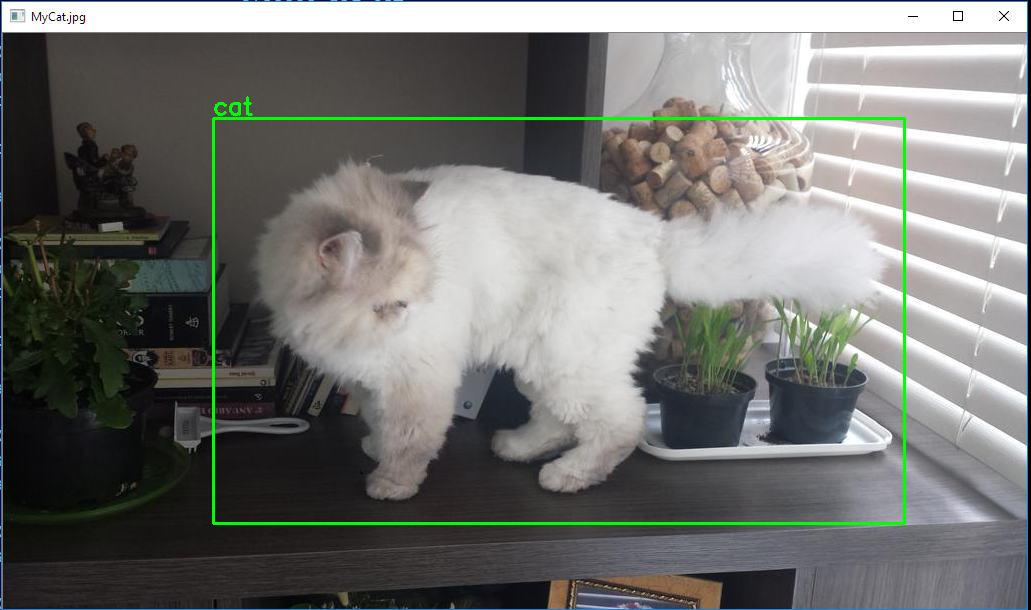
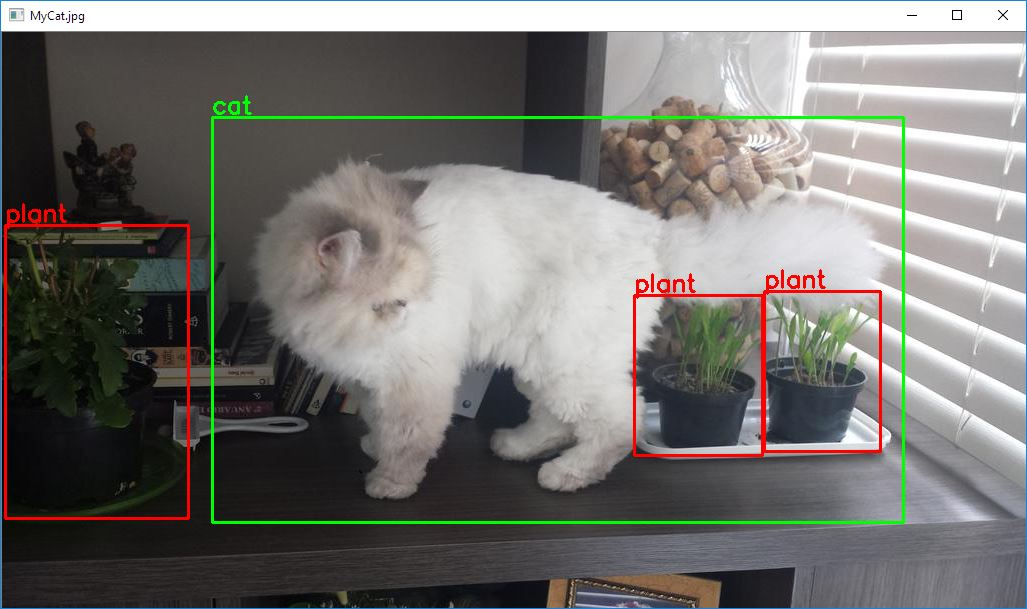
Samples

diff --git a/README.md b/README.md
@@ -63,5 +63,11 @@ optional arguments:<br>
 **'P'** to previus image<br/>
 **'Q'** Exit<br/>
 
+
+### Example
+> python CreateBoundingBoxes.py -p ..\.\image -className cat plant <br>
+
 ![Screen Shot](https://github.com/kabrau/PyImageRoi/blob/master/tmp/MyCatResult.jpg)
+
+![Text File](https://github.com/kabrau/PyImageRoi/blob/master/image/MyCat.txt)
 
